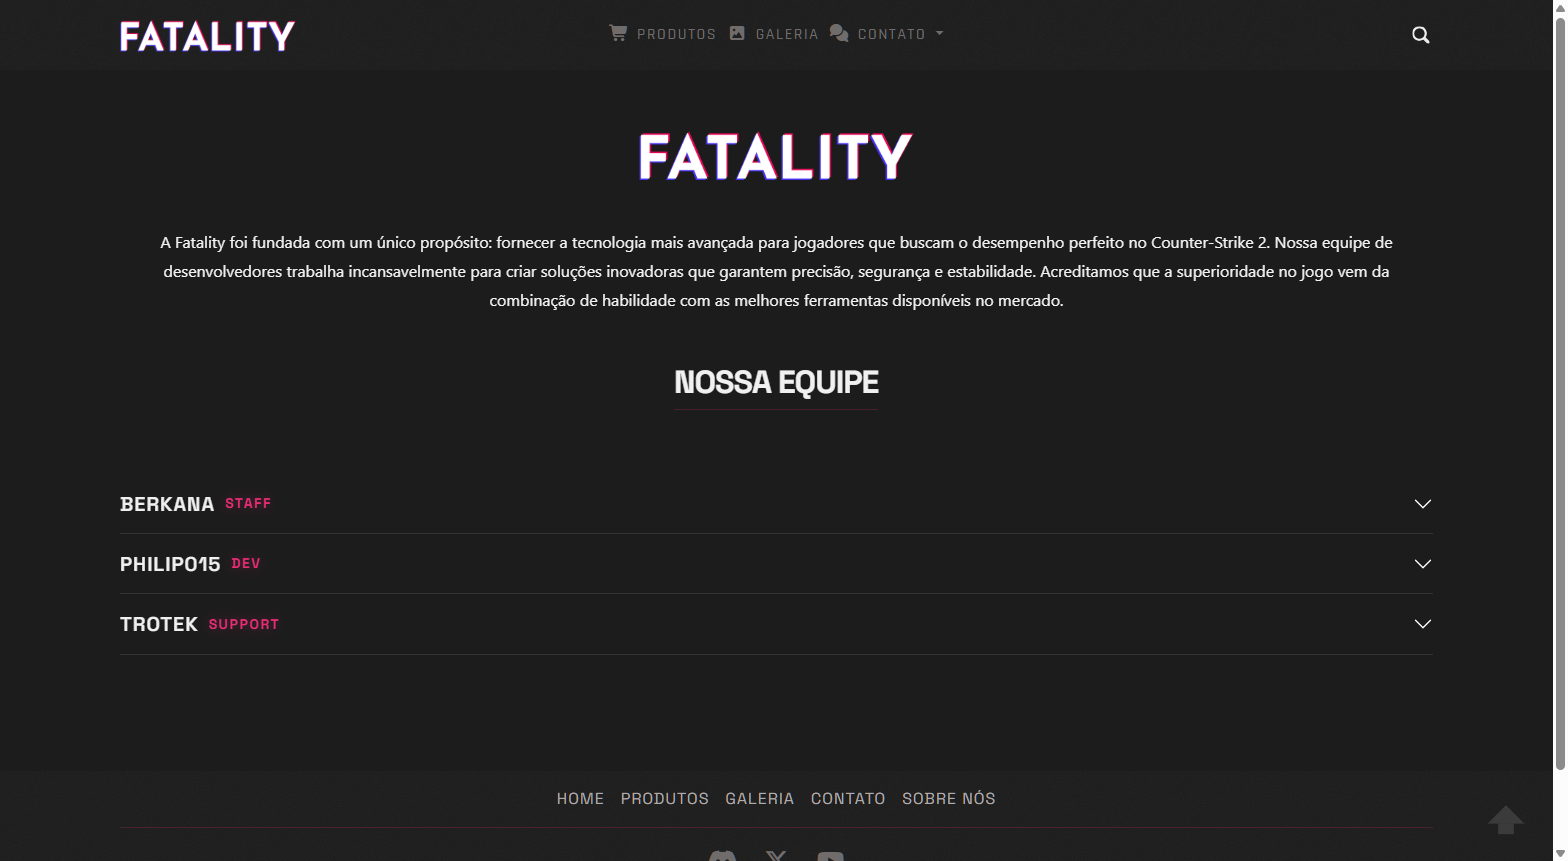
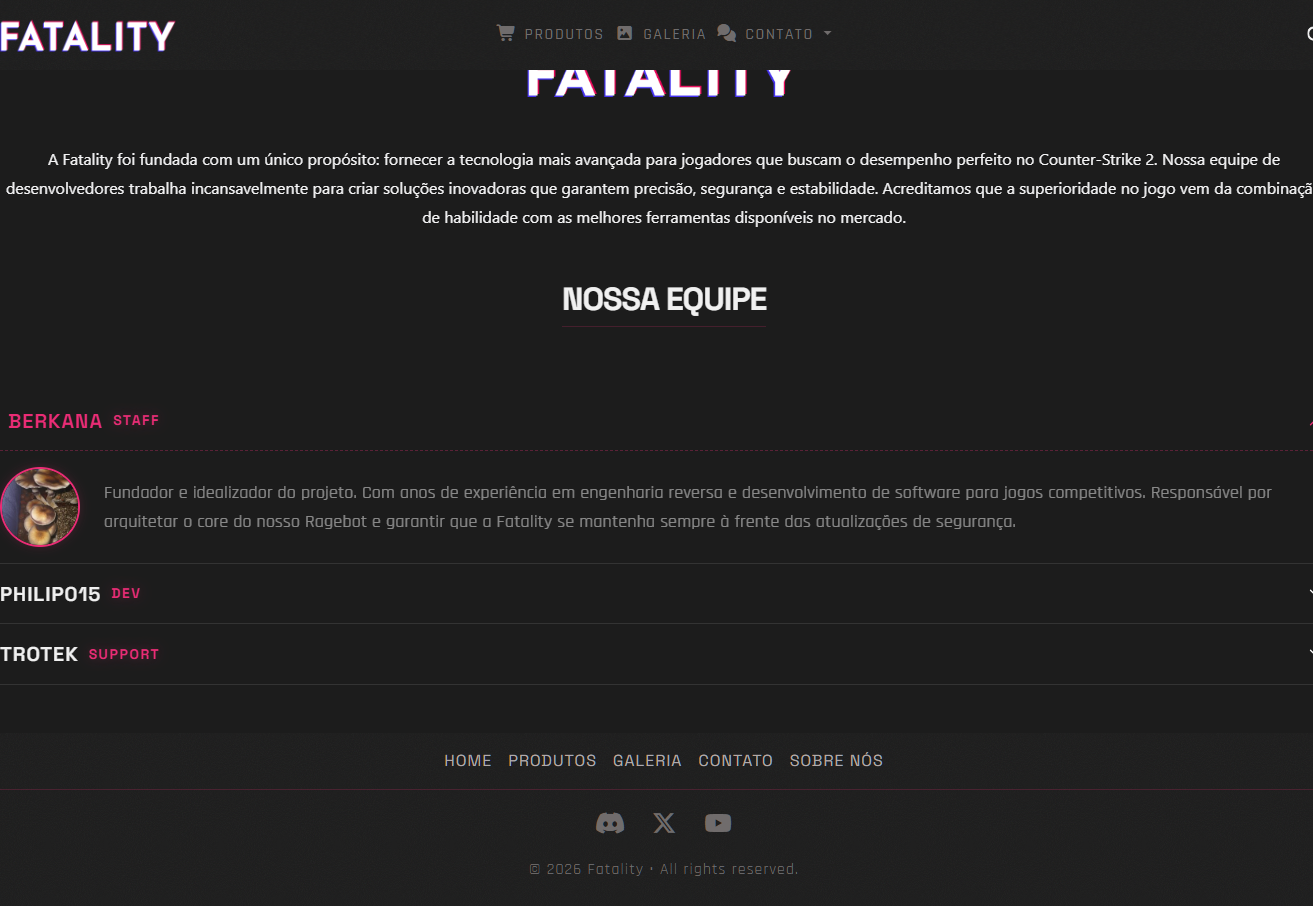
docs(screenshots): atualiza slide do carrossel e captura perfil berkana aberto

diff --git a/README.md b/README.md
@@ -31,7 +31,7 @@ A disciplina demandou a concepção e implementação de uma interface visualmen
 ## Registros Visuais da Aplicação
 
 ### Página Principal e Apresentação do Produto
-![Página Inicial](docs/screenshots/01-home-fatality.png?v=2)
+![Página Inicial](docs/screenshots/01-home-fatality.png?v=3)
 
 ### Catálogo de Planos e Precificação
 ![Tabela de Produtos](docs/screenshots/02-produtos.png?v=2)
@@ -43,7 +43,7 @@ A disciplina demandou a concepção e implementação de uma interface visualmen
 ![Formulário de Contato](docs/screenshots/04-contato.png?v=2)
 
 ### Apresentação da Equipe e Estrutura Institucional
-![Sobre Nós e Equipe](docs/screenshots/05-sobre.png?v=2)
+![Sobre Nós e Equipe](docs/screenshots/05-sobre.png?v=3)
 
 ## Organização do Repositório
 
